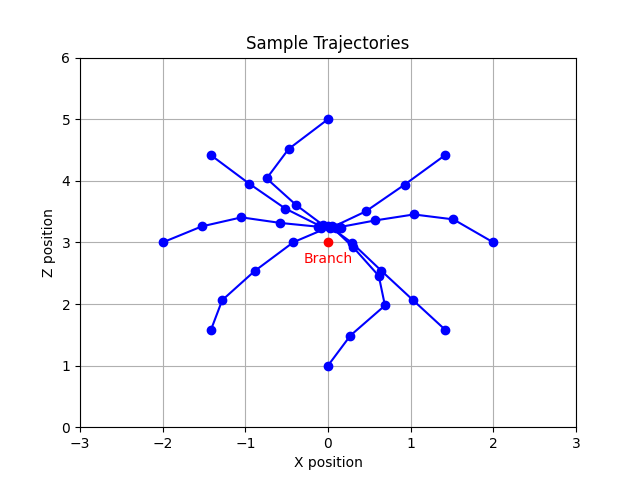
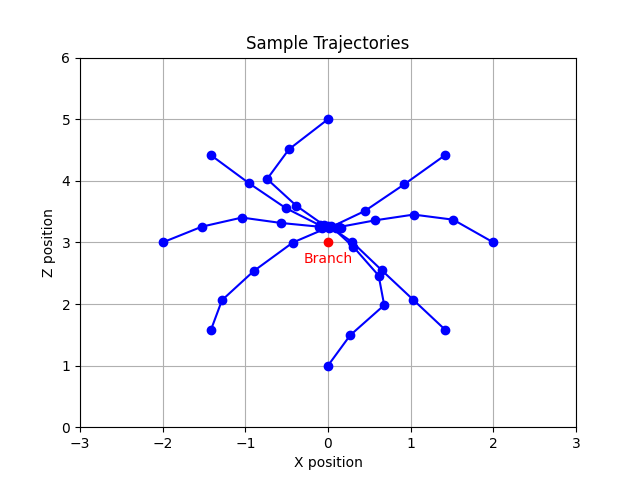
increase speed of approaching (#50)

diff --git a/04_Repository/models/sample_trajectories_from_model.py b/04_Repository/models/sample_trajectories_from_model.py
@@ -24,11 +24,12 @@ class SampleTrajEnv(gym.Wrapper):
         return obs
 
 
-def sample_trajectories(dir, show=True):
+def sample_trajectories(dir, show=True, human=False):
     plotting_degrees = [0, 45, 90, 135, 180, 225, 270, 315]
 
     model = SAC.load(f"{dir}/model.zip")
-    env = SampleTrajEnv(PositionWrapper(TwoDimWrapper(BulletDroneEnv(render_mode="console"))),
+    render_mode = "console" if not human else "human"
+    env = SampleTrajEnv(PositionWrapper(TwoDimWrapper(BulletDroneEnv(render_mode=render_mode))),
                         plotting_degrees=plotting_degrees)
     model.set_env(env)
 
@@ -57,8 +58,11 @@ def sample_trajectories(dir, show=True):
 
 
 if __name__ == "__main__":
-    if len(sys.argv) != 2:
-        print("Usage: python sample_trajectories_from_model.py <model dir>")
-    else:
+    if len(sys.argv) == 2:
         dir = sys.argv[1]
         sample_trajectories(dir, show=True)
+    elif len(sys.argv) == 3 and sys.argv[2] == "-h":
+        dir = sys.argv[1]
+        sample_trajectories(dir, show=True, human=True)
+    else:
+        print("Usage: python sample_trajectories_from_model.py <model dir>")

diff --git a/04_Repository/TetherModel/Environment/run_tethered_drone_simulator.py b/04_Repository/TetherModel/Environment/run_tethered_drone_simulator.py
@@ -13,6 +13,8 @@ class TetheredDroneSimulatorRunner:
 
     def run(self) -> None:
         already_moved = False
+        action_size = None
+        action_mags = []
         while True:
             it = min(self.iteration, (len(self.xs) - 1))
             x = self.xs[it]
@@ -21,12 +23,14 @@ class TetheredDroneSimulatorRunner:
             self.iteration += 395
 
             action = drone_pos - self.prev_pos
+            action_mags.append(np.linalg.norm(action))
             if self.iteration < len(self.xs) * 2:
                 self.simulator.step(action)
             elif not already_moved:
                 self.simulator.step(np.array([-0.2, 0, 0], dtype=np.float32))
                 already_moved = True
+                action_size = np.mean(action_mags)
             else:
                 self.simulator.step()
             self.prev_pos = drone_pos
-            print("x: ", x, " z: ", z)
+            print("x: ", x, " z: ", z, "action_mag: ", action_size)

diff --git a/04_Repository/Gym/Wrappers/position_wrapper.py b/04_Repository/Gym/Wrappers/position_wrapper.py
@@ -5,7 +5,7 @@ import numpy as np
 
 
 class PositionWrapper(gym.Wrapper):
-    MAGNITUDE = 0.001
+    MAGNITUDE = 0.005
     MAX_STEP = 0.5
 
     def __init__(self, env) -> None:
@@ -46,10 +46,13 @@ class PositionWrapper(gym.Wrapper):
     def _take_single_step(self, target: np.ndarray) -> Tuple[np.ndarray, float, bool, bool, Dict[Any, Any]]:
         # Calculate direction vector
         direction = target - self.current_state
-        action = np.clip(direction, -self.MAGNITUDE, self.MAGNITUDE)
+        dir_norm = np.linalg.norm(direction)
+        scale_factor = self.MAGNITUDE / dir_norm
+
+        action = direction * scale_factor
 
         state, reward, terminated, truncated, info = self.env.step(action)
 
         self.current_state = state
 
-        return state, reward, terminated, self.num_steps >= 40, info
+        return state, reward, terminated, truncated or self.num_steps >= 40, info

diff --git a/04_Repository/TetherModel/Environment/environment.py b/04_Repository/TetherModel/Environment/environment.py
@@ -8,7 +8,6 @@ class Environment:
     def __init__(self) -> None:
         p.setAdditionalSearchPath(pybullet_data.getDataPath())
         self.ground = p.loadURDF("plane.urdf")
-        # TODO: Add the perching branch
 
     def add_tree_branch(self, position: List[float], length: float = 1.0, radius: float = 0.02,
                         orientation: List[float] = [np.pi / 2, 0.1, 0]) -> None:
